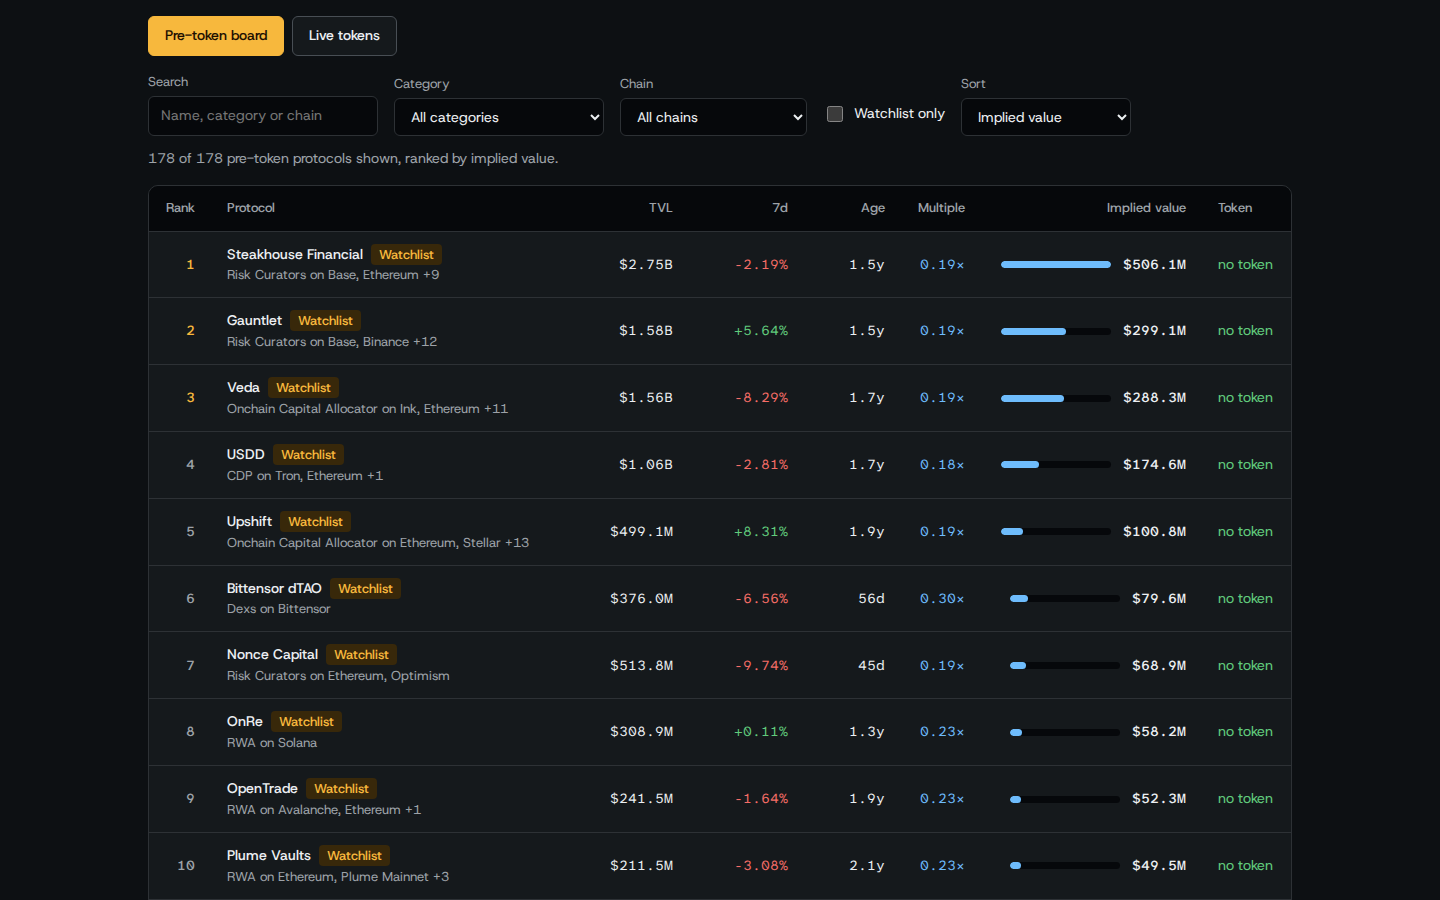
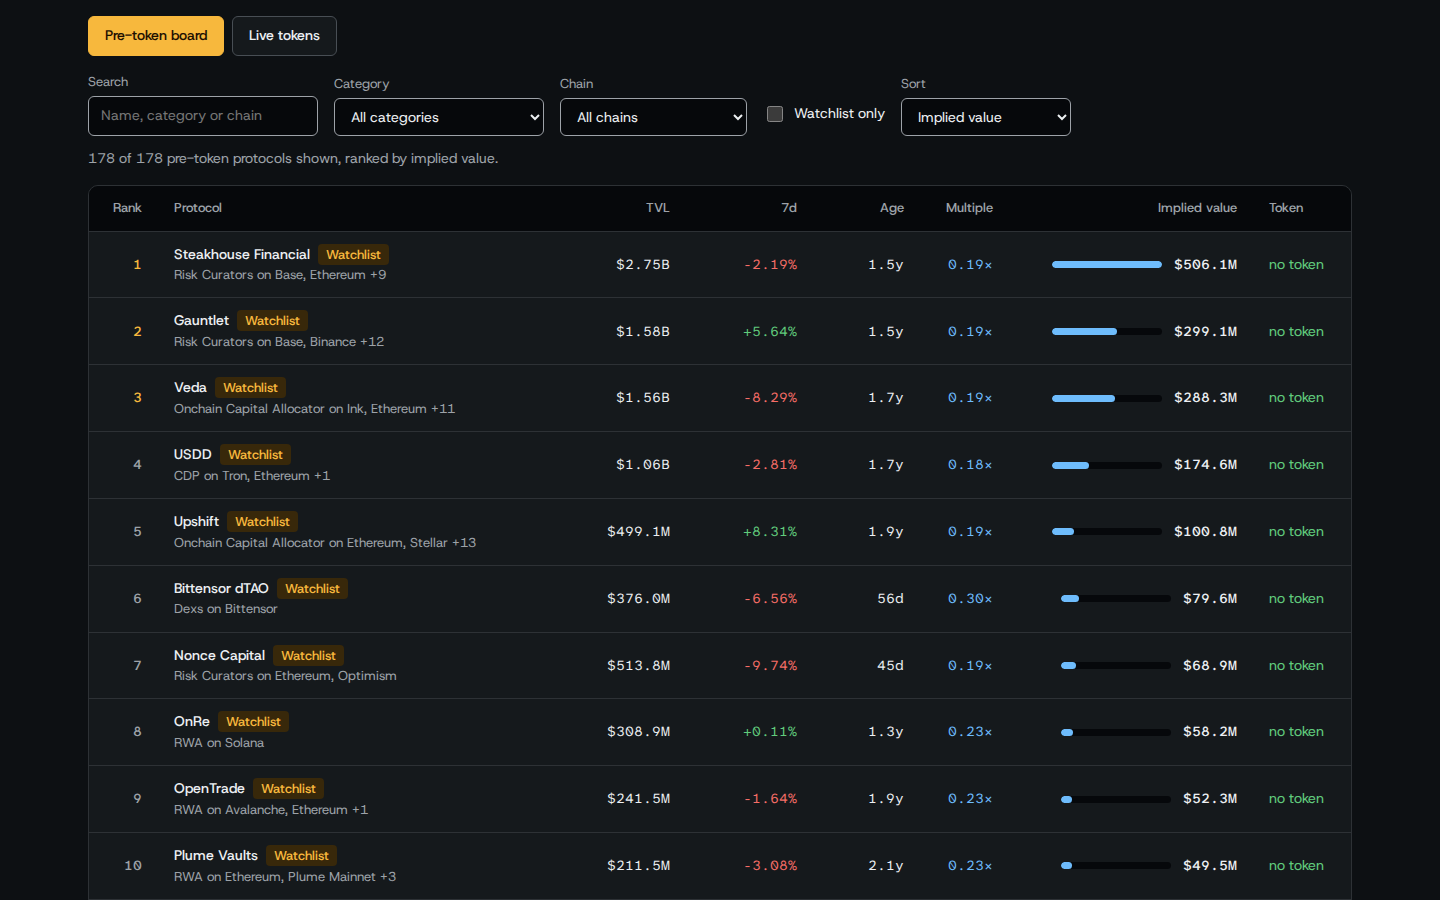
Polish: wrap container, sectioned board, mobile table, real screenshots

diff --git a/dashboard/index.html b/dashboard/index.html
@@ -10,13 +10,16 @@
 <link rel="stylesheet" href="app.css">
 </head>
 <body>
-<div class="shell">
-  <header class="topbar">
-    <div class="brand"><span class="brand-mark" aria-hidden="true"></span><span class="brand-name">Token Radar</span><span class="brand-sub">pre-token protocol index</span></div>
+<header class="topbar nav">
+  <div class="wrap">
+  <div class="brand"><span class="brand-mark" aria-hidden="true"></span><span class="brand-name">Token Radar</span><span class="brand-sub">pre-token protocol index</span></div>
     <div class="topmeta" id="asof">Snapshot 2026-11-14, DefiLlama protocol index</div>
-  </header>
+  </div>
+</header>
 
+<main>
   <section class="hero">
+    <div class="wrap">
     <h1>Every protocol still waiting for its token, ranked by what its launch could be worth.</h1>
     <p class="lede">The radar reads one frozen DefiLlama snapshot, finds the protocols that record no token, and prices each one from the market&rsquo;s own comparables.</p>
     <div class="stats" id="stats">
@@ -26,8 +29,11 @@
       <div class="stat"><b>24</b><span>Live tokens set aside</span><em>already trading, shown as comparables</em></div>
     </div>
     <p class="formula">implied = TVL &times; multiple(category) &times; growth &times; maturity &times; breadth</p>
+    </div>
   </section>
 
+  <section class="board" aria-label="Ranked board">
+    <div class="wrap">
   <details class="modelbox">
     <summary>How the value is set</summary>
     <div class="modelgrid">
@@ -49,7 +55,7 @@
     </div>
   </details>
 
-  <section class="toolbar" aria-label="Board controls">
+  <div class="toolbar" aria-label="Board controls">
     <div class="tabs" role="tablist">
       <button id="tab-pre" class="tab active" role="tab" aria-selected="true">Pre-token board</button>
       <button id="tab-live" class="tab" role="tab" aria-selected="false">Live tokens</button>
@@ -68,9 +74,8 @@
       </select></label>
     </div>
     <p class="rowcount" id="rowcount">Showing the top 10 of 178 pre-token protocols. The full board loads with the page script.</p>
-  </section>
+  </div>
 
-  <main>
     <div class="tablewrap">
       <table class="board" id="board">
         <thead><tr>
@@ -98,14 +103,17 @@
     </div>
     <p class="tablehint">Select any row for its model breakdown and farm plan. The board is sorted by the model&rsquo;s rank unless you choose another sort.</p>
     <noscript><p class="tablehint">This board needs JavaScript to sort and filter. The top 10 rows above are the board as built, and the full ranked list ships beside this page as board data.</p></noscript>
-  </main>
+    </div>
+  </section>
+</main>
 
-  <footer class="foot">
+<footer class="closing">
+  <div class="wrap">
     <p><b>What no token means here.</b> A protocol is listed as pre-token when its DefiLlama record carries no market cap, no CoinGecko id and no symbol. That is the record, not proof: a protocol on this board may still have a token its record does not carry. Wrapped, staked and bridged products of tokens that already trade are left out, as are versioned pools and exchanges.</p>
     <p><b>What the implied value is.</b> A model&rsquo;s claim about what a token would be worth if the protocol&rsquo;s record stayed as it is. It does not predict whether or when a token is issued, and it is not investment advice. Farm steps name what a position costs and how long it takes; they never promise an airdrop.</p>
     <p>Model radar-2-comps. Type: Host Grotesk and Atkinson Hyperlegible Mono (SIL Open Font License), self-hosted. Data: DefiLlama protocol index, snapshot 2026-11-14.</p>
-  </footer>
-</div>
+  </div>
+</footer>
 
 <aside class="drawer" id="drawer" aria-hidden="true">
   <div class="drawer-card" id="drawercard"></div>

diff --git a/dashboard/app.css b/dashboard/app.css
@@ -9,18 +9,20 @@
 /* Token Radar dashboard: an instrument kept by careful people. Console theme, app screen.
    Every colour and font below comes from tokens.css. No gradients, no glow, no shadow. */
 
-.shell { max-width: var(--container); margin-inline: auto; padding-inline: var(--gutter); padding-bottom: var(--space-2xl); }
+.wrap { max-width: var(--container); margin-inline: auto; padding-inline: 0; }
 a { color: var(--color-cool); }
 
 /* Top bar: wordmark left, snapshot meta right. */
 .topbar {
-  display: flex; justify-content: space-between; align-items: center; gap: var(--space-md);
   padding-top: var(--space-lg); padding-bottom: var(--space-md); border-bottom: var(--rule-hair) solid var(--color-rule);
 }
+.topbar .wrap { display: flex; justify-content: space-between; align-items: center; gap: var(--space-md); }
 .brand { display: flex; align-items: baseline; gap: var(--space-sm); }
 .brand-mark {
-  width: var(--space-md); height: var(--space-md); flex: none; align-self: center;
-  border: var(--rule-hair) solid var(--color-accent); transform: rotate(45deg);
+  width: 28px; height: 28px; flex: none; align-self: center; display: grid; place-items: center;
+}
+.brand-mark::before {
+  content: ""; width: 20px; height: 20px; border: var(--rule-hair) solid var(--color-accent); transform: rotate(45deg);
 }
 .brand-name { font-weight: var(--display-weight); letter-spacing: var(--tracking-display); font-size: var(--text-lg); }
 .brand-sub { color: var(--color-muted); font-size: var(--text-sm); }
@@ -128,9 +130,9 @@ table.board { width: 100%; border-collapse: collapse; font-size: var(--text-sm);
 .tablehint { color: var(--color-muted); font-size: var(--text-sm); margin-top: var(--space-sm); margin-bottom: 0; }
 
 /* Footer: method and credits. */
-.foot { margin-top: var(--space-xl); border-top: var(--rule-hair) solid var(--color-rule); padding-top: var(--space-md); color: var(--color-muted); font-size: var(--text-sm); }
-.foot p { margin-top: 0; margin-bottom: var(--space-sm); }
-.foot b { color: var(--color-ink); font-weight: var(--display-weight); }
+.closing { margin-top: var(--space-xl); border-top: var(--rule-hair) solid var(--color-rule); padding-top: var(--space-md); padding-bottom: var(--space-2xl); color: var(--color-muted); font-size: var(--text-sm); }
+.closing p { margin-top: 0; margin-bottom: var(--space-sm); }
+.closing b { color: var(--color-ink); font-weight: var(--display-weight); }
 
 /* Detail drawer. */
 .drawer { position: fixed; inset: 0; background: var(--color-scrim); display: none; z-index: var(--z-modal); }
@@ -196,8 +198,11 @@ table.board { width: 100%; border-collapse: collapse; font-size: var(--text-sm);
 }
 .errorbox b { color: var(--color-bad); }
 
+@media (max-width: 1300px) {
+  .wrap { padding-inline: 20px; }
+}
 @media (max-width: 760px) {
-  .shell { padding-bottom: var(--space-xl); }
+  .closing { padding-bottom: var(--space-xl); }
   .hero h1 { font-size: var(--text-2xl); }
   .stats { grid-template-columns: repeat(2, minmax(0, 1fr)); }
   .modelgrid { grid-template-columns: minmax(0, 1fr); }
@@ -206,11 +211,14 @@ table.board { width: 100%; border-collapse: collapse; font-size: var(--text-sm);
   .brand-sub { display: none; }
 }
 @media (max-width: 560px) {
+  .formula { white-space: normal; overflow-x: visible; }
   table.board { min-width: 0; }
+  .board th:nth-child(1), .board td:nth-child(1),
   .board th:nth-child(3), .board td:nth-child(3),
   .board th:nth-child(4), .board td:nth-child(4),
   .board th:nth-child(6), .board td:nth-child(6),
   .board th:nth-child(8), .board td:nth-child(8) { display: none; }
+  .valbar { display: block; width: 20px; }
 }
 @media (prefers-reduced-motion: reduce) {
   .board tbody tr, .tab, .close { transition: none; }

diff --git a/dashboard/tokens.css b/dashboard/tokens.css
@@ -9,7 +9,7 @@
   --ease-out: cubic-bezier(0.16, 1, 0.3, 1); --ease-in: cubic-bezier(0.7, 0, 0.84, 0); --ease-in-out: cubic-bezier(0.65, 0, 0.35, 1);
   --dur-micro: 120ms; --dur-short: 220ms; --dur-long: 420ms;
   --color-error: oklch(72% 0.15 27); --color-success: oklch(76% 0.13 150);
-  --container: 1200px; --gutter: 28px; --gap-columns: 32px; --section-gap-s: 120px; --section-gap: 144px; --section-gap-l: 176px;
+  --container: 1264px; --gutter: 28px; --gap-columns: 32px; --section-gap-s: 120px; --section-gap: 144px; --section-gap-l: 176px;
   --z-base: 1; --z-raised: 10; --z-dropdown: 100; --z-sticky: 200; --z-sticky-nav: 300; --z-modal: 400; --z-toast: 500; --z-tooltip: 600;
   --color-paper: oklch(17% 0.008 250); --color-paper-2: oklch(21% 0.009 250); --color-paper-3: oklch(13.5% 0.007 250);
   --color-ink: oklch(95% 0.005 250); --color-ink-2: oklch(83% 0.008 250); --color-muted: oklch(71% 0.01 250);
